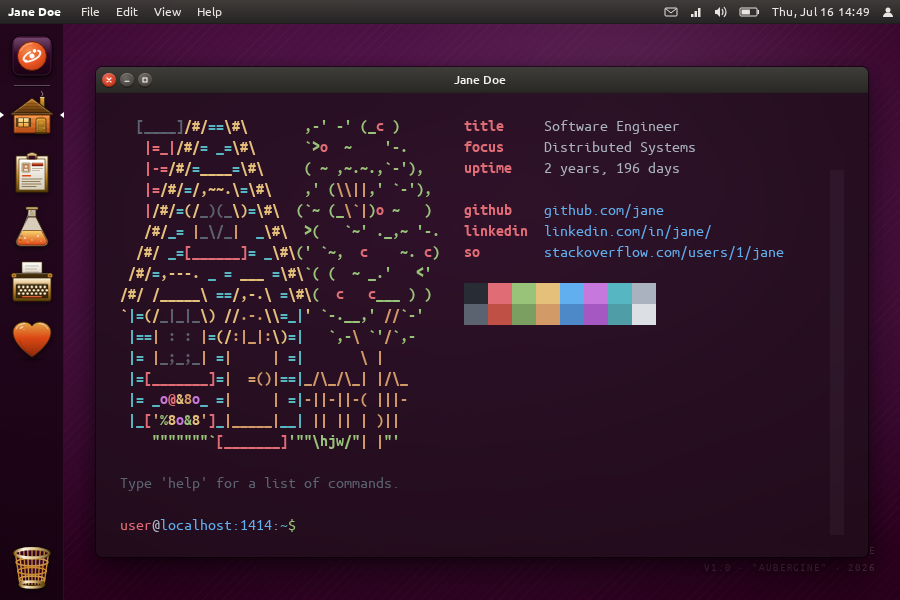
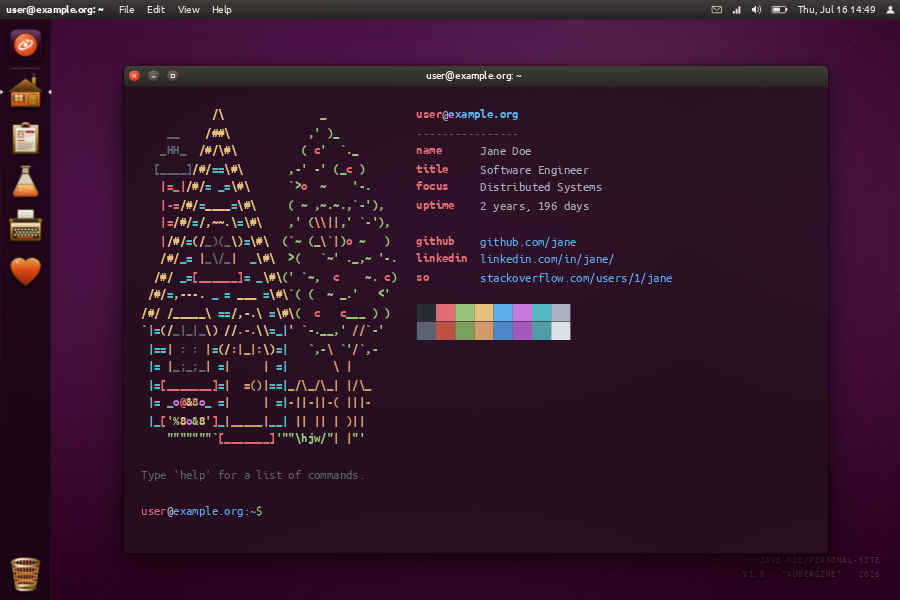
docs(unity): recapture the gallery images with a script
The screenshot and thumbnail came from hugo server in July, so the
prompt read user@localhost:1414 and the desktop predated three months
of changes.

npm run gallery builds the example site for production, serves the
build to Chromium at https://example.org/, freezes the clock, and
writes both images. The thumbnail lays the page out at 1125x750 and
draws it at 0.8 scale, so the terminal shows its whole banner. The
release steps in CLAUDE.md now run it.

diff --git a/themes/unity/scripts/capture-gallery.ts b/themes/unity/scripts/capture-gallery.ts
@@ -1,0 +1,125 @@
+#!/usr/bin/env node
+// Captures images/screenshot.png and images/tn.png, which themes.gohugo.io
+// shows for the theme, from the home page of the example site. It builds the
+// site the way a production deploy does, at its own baseURL. It then opens the
+// build in Chromium through Playwright. The browser asks for each page at the
+// baseURL's host. The script answers each request from the build on disk, so
+// the terminal's prompt names that host. A fixed clock, time zone, and locale
+// make two runs draw the same panel clock. Run it with `npm run gallery`. It
+// needs Hugo on PATH and the Chromium that `npx playwright install chromium`
+// downloads.
+import { spawnSync } from "node:child_process";
+import { mkdtempSync, rmSync, statSync } from "node:fs";
+import { tmpdir } from "node:os";
+import { dirname, join, normalize, resolve, sep } from "node:path";
+import { fileURLToPath } from "node:url";
+
+import { type Browser, chromium, type Route } from "@playwright/test";
+
+const theme = resolve(dirname(fileURLToPath(import.meta.url)), "..");
+
+// The baseURL that exampleSite/hugo.toml sets.
+const ORIGIN = "https://example.org";
+
+// The panel clock and the banner's uptime read this time.
+const NOW = new Date("2026-07-16T14:49:00Z");
+
+// README.md documents the class that the desktop sets on <body> after it
+// starts.
+const READY = "body.up-ready";
+
+// The gallery wants a 1500x1000 screenshot and a 900x600 thumbnail. Chromium
+// lays each page out at width by height and draws it at scale times that size.
+// The thumbnail's layout is larger than the image. At a 900x600 layout, the
+// banner overflows the terminal window, and the terminal scrolls its top out
+// of view.
+const SHOTS = [
+  { file: "screenshot.png", width: 1500, height: 1000, scale: 1 },
+  { file: "tn.png", width: 1125, height: 750, scale: 0.8 },
+] as const;
+
+const out = mkdtempSync(join(tmpdir(), "unity-gallery-"));
+let browser: Browser | undefined;
+try {
+  build();
+  browser = await chromium.launch();
+  for (const shot of SHOTS) {
+    const size = await capture(browser, shot.file, shot.width, shot.height, shot.scale);
+    console.log(`wrote images/${shot.file} at ${size}`);
+  }
+} finally {
+  await browser?.close();
+  rmSync(out, { recursive: true, force: true });
+}
+
+function build(): void {
+  const run = spawnSync("hugo", [
+    "--source", join(theme, "exampleSite"),
+    "--themesDir", dirname(theme),
+    "--destination", out,
+    "--environment", "production",
+    "--minify",
+    "--quiet",
+  ], { encoding: "utf8" });
+  if (run.status !== 0) {
+    throw new Error(`hugo failed to build the example site\n${run.error?.message ?? ""}${run.stdout ?? ""}${run.stderr ?? ""}`);
+  }
+}
+
+// Writes the home page to images/<file> and returns the image's size.
+async function capture(browser: Browser, file: string, width: number, height: number, scale: number): Promise<string> {
+  // Under reduced motion, the desktop starts without its animations.
+  const context = await browser.newContext({
+    viewport: { width, height },
+    deviceScaleFactor: scale,
+    locale: "en-US",
+    timezoneId: "UTC",
+    reducedMotion: "reduce",
+  });
+  try {
+    const page = await context.newPage();
+    await page.clock.setFixedTime(NOW);
+    await page.route(() => true, serve);
+    await page.goto(`${ORIGIN}/`);
+    await page.locator(READY).waitFor({ state: "attached" });
+    // The terminal prints its banner and then the prompt.
+    await page.getByText(`user@${new URL(ORIGIN).host}:~$`).waitFor();
+    await page.evaluate("document.fonts.ready");
+    const png = await page.screenshot({ path: join(theme, "images", file), animations: "disabled" });
+    // A PNG's header holds its width and height at bytes 16 and 20.
+    return `${png.readUInt32BE(16)}x${png.readUInt32BE(20)}`;
+  } finally {
+    await context.close();
+  }
+}
+
+// Answers a request for the site's host from the build, the way a static host
+// does. Every other request gets an empty response, so the capture runs
+// offline.
+async function serve(route: Route): Promise<void> {
+  const url = new URL(route.request().url());
+  if (url.origin !== ORIGIN) {
+    await route.fulfill({ status: 204 });
+    return;
+  }
+  const file = lookup(url.pathname);
+  await route.fulfill(file ? { path: file } : { status: 404, path: join(out, "404.html") });
+}
+
+// The file in the build that a URL path names, or undefined when no file
+// matches. A path that ends in a slash names the index.html under it.
+function lookup(pathname: string): string | undefined {
+  let path: string;
+  try {
+    path = decodeURIComponent(pathname);
+  } catch {
+    return undefined;
+  }
+  const file = join(out, normalize(path.endsWith("/") ? `${path}index.html` : path));
+  if (!file.startsWith(out + sep)) return undefined;
+  try {
+    return statSync(file).isFile() ? file : undefined;
+  } catch {
+    return undefined;
+  }
+}

diff --git a/themes/unity/CLAUDE.md b/themes/unity/CLAUDE.md
@@ -112,4 +112,5 @@ The app bundle and each page bundle that `baseof.html` ships from the `unity-bun
 
 1. In `CHANGELOG.md`, move the entries under `[Unreleased]` to a new `## [X.Y.Z] - YYYY-MM-DD` heading below it, and leave `[Unreleased]` empty. Update the link references at the end of the file to match.
 2. Set `"version"` in `package.json` to `X.Y.Z`, then run `npm install` at the root of the site that hosts the theme, so `package-lock.json` records the version.
-3. Commit both changes. Do not create or push the tag. The owner creates the annotated `themes/unity/vX.Y.Z` tag and pushes it. Hugo modules find a version of a theme in a subdirectory only by a tag with that directory's prefix.
+3. Run `npm run gallery` to capture `images/screenshot.png` and `images/tn.png` again from the home page of the example site. The gallery at themes.gohugo.io shows both images, and README.md shows the screenshot. Look at each image before you commit it.
+4. Commit the changes. Do not create or push the tag. The owner creates the annotated `themes/unity/vX.Y.Z` tag and pushes it. Hugo modules find a version of a theme in a subdirectory only by a tag with that directory's prefix.
